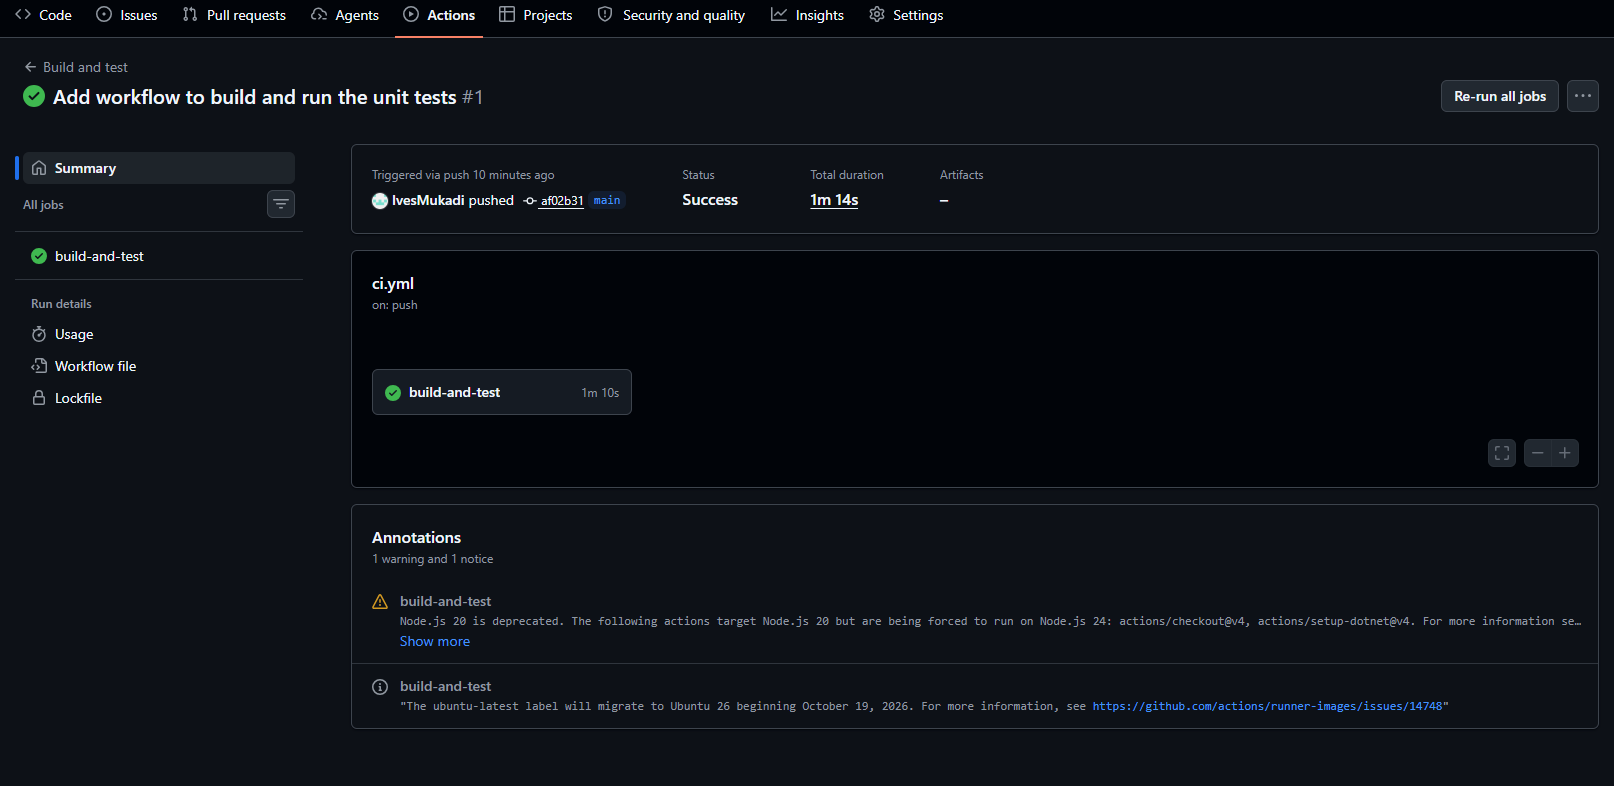
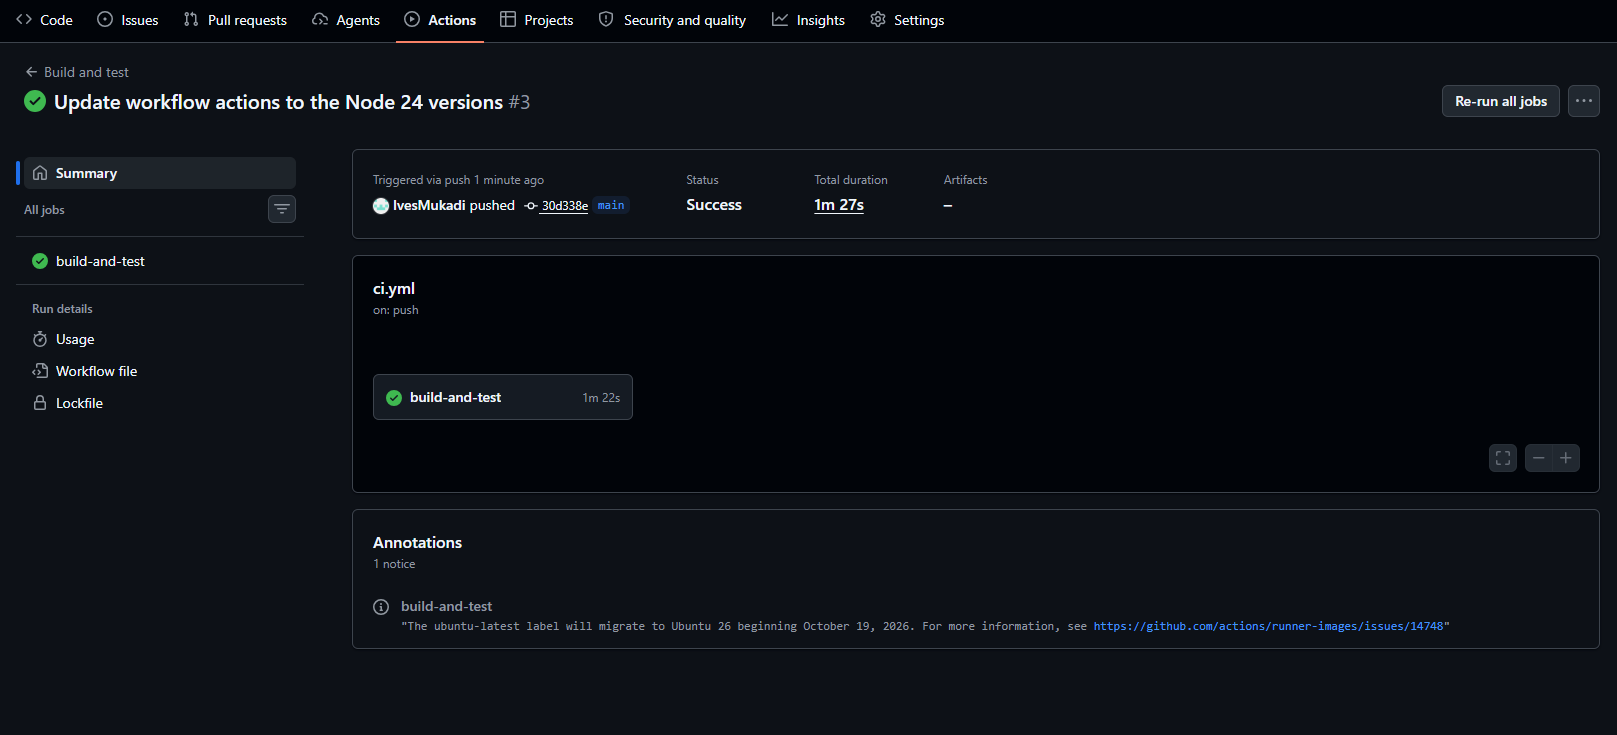
Add project structure and endpoint list to the README and update CI screenshot

diff --git a/README.md b/README.md
@@ -14,7 +14,7 @@ Organiser: can create, edit and delete events, manage event categories, view all
 Participant: can create an account, browse events, enrol in an event by choosing a category, view their own enrolments and track their personal results.
 
 Part 1 Details
-Part 1 covers planning only. No API code has been written yet.
+Part 1 covers planning only. The API was built afterwards in Part 2.
 
 Files in Part1/docs:
 
@@ -42,6 +42,40 @@ Seed passwords are placeholders (hashed_pass_1 and so on). Real hashing is done 
 
 Part 2 Details
 Part 2 is a RESTful API built with ASP.NET Core Web API on .NET 8, Entity Framework Core (Code-First) and SQL Server. The code is in Part2/RaceDay.Api and the unit tests are in Part2/RaceDay.Api.Tests.
+
+Project structure
+Part2/RaceDay.Api/Controllers - one controller for each area (Auth, Users, Events, Categories, Enrolments and Results)
+Part2/RaceDay.Api/Models - one class for each database table
+Part2/RaceDay.Api/Data - RaceDayContext (the database connection and relationships) and SeedData (the sample data)
+Part2/RaceDay.Api/Dtos - the shapes of the requests and responses, so passwords and extra fields are never sent out
+Part2/RaceDay.Api/Helpers - a small helper that reads the logged in user's id from the session cookie
+Part2/RaceDay.Api/Migrations - the EF Core migration that creates the database
+Part2/RaceDay.Api.Tests - the unit tests (91 tests)
+.github/workflows - docs-check.yml (checks the Part 1 files) and ci.yml (builds the API and runs the tests)
+
+API endpoints
+POST /api/auth/register - anyone
+POST /api/auth/login - anyone
+POST /api/auth/logout - logged in users
+GET /api/users/me - logged in users
+PUT /api/users/me - logged in users
+GET /api/events - anyone (optional filters: type, status, date)
+GET /api/events/{id} - anyone
+GET /api/events/mine - Organiser
+POST /api/events - Organiser
+PUT /api/events/{id} - Organiser (own events only)
+DELETE /api/events/{id} - Organiser (own events only)
+GET /api/events/{eventId}/categories - anyone
+POST /api/events/{eventId}/categories - Organiser (own events only)
+PUT /api/categories/{id} - Organiser (own events only)
+DELETE /api/categories/{id} - Organiser (own events only)
+POST /api/events/{eventId}/enrol - Participant
+GET /api/users/me/enrolments - Participant
+GET /api/events/{eventId}/enrolments - Organiser (own events only)
+PUT /api/enrolments/{id}/status - Organiser (own events only)
+POST /api/events/{eventId}/results - Organiser (own events only)
+GET /api/users/me/results - Participant
+GET /api/events/{eventId}/results - Organiser (own events only)
 
 How the roles work in the API
 The API checks the role on every endpoint. A logged out user gets 401 on protected endpoints. A Participant gets 403 on Organiser endpoints, and an Organiser gets 403 on Participant endpoints. An Organiser can only change events, categories, enrolments and results that belong to their own events.
